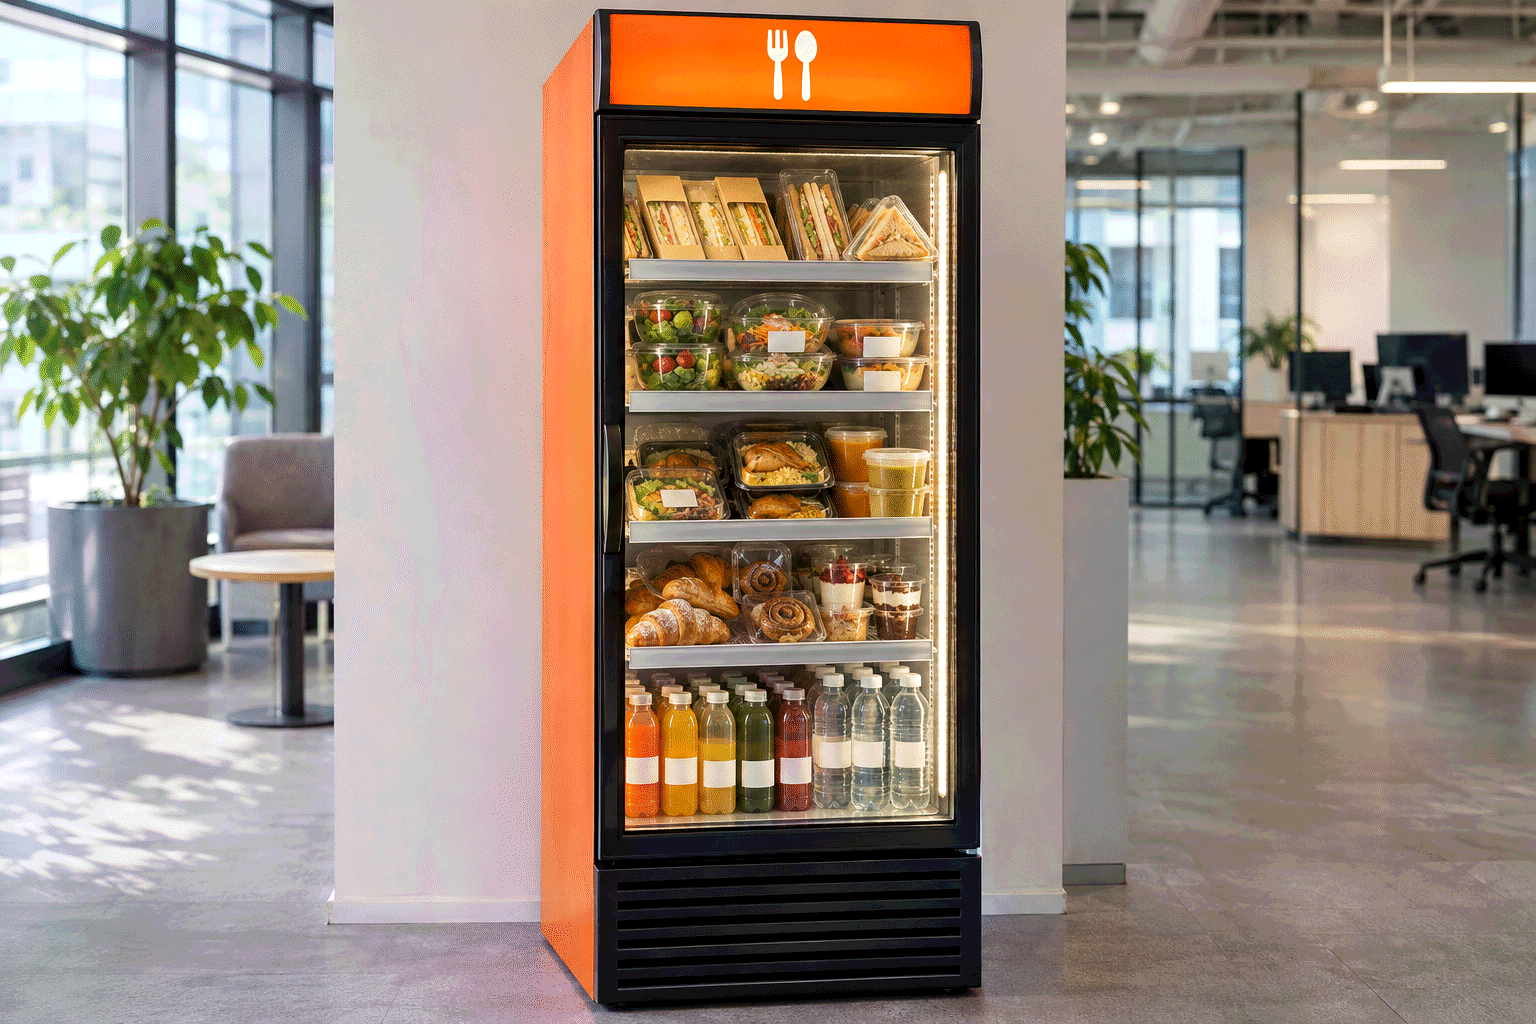
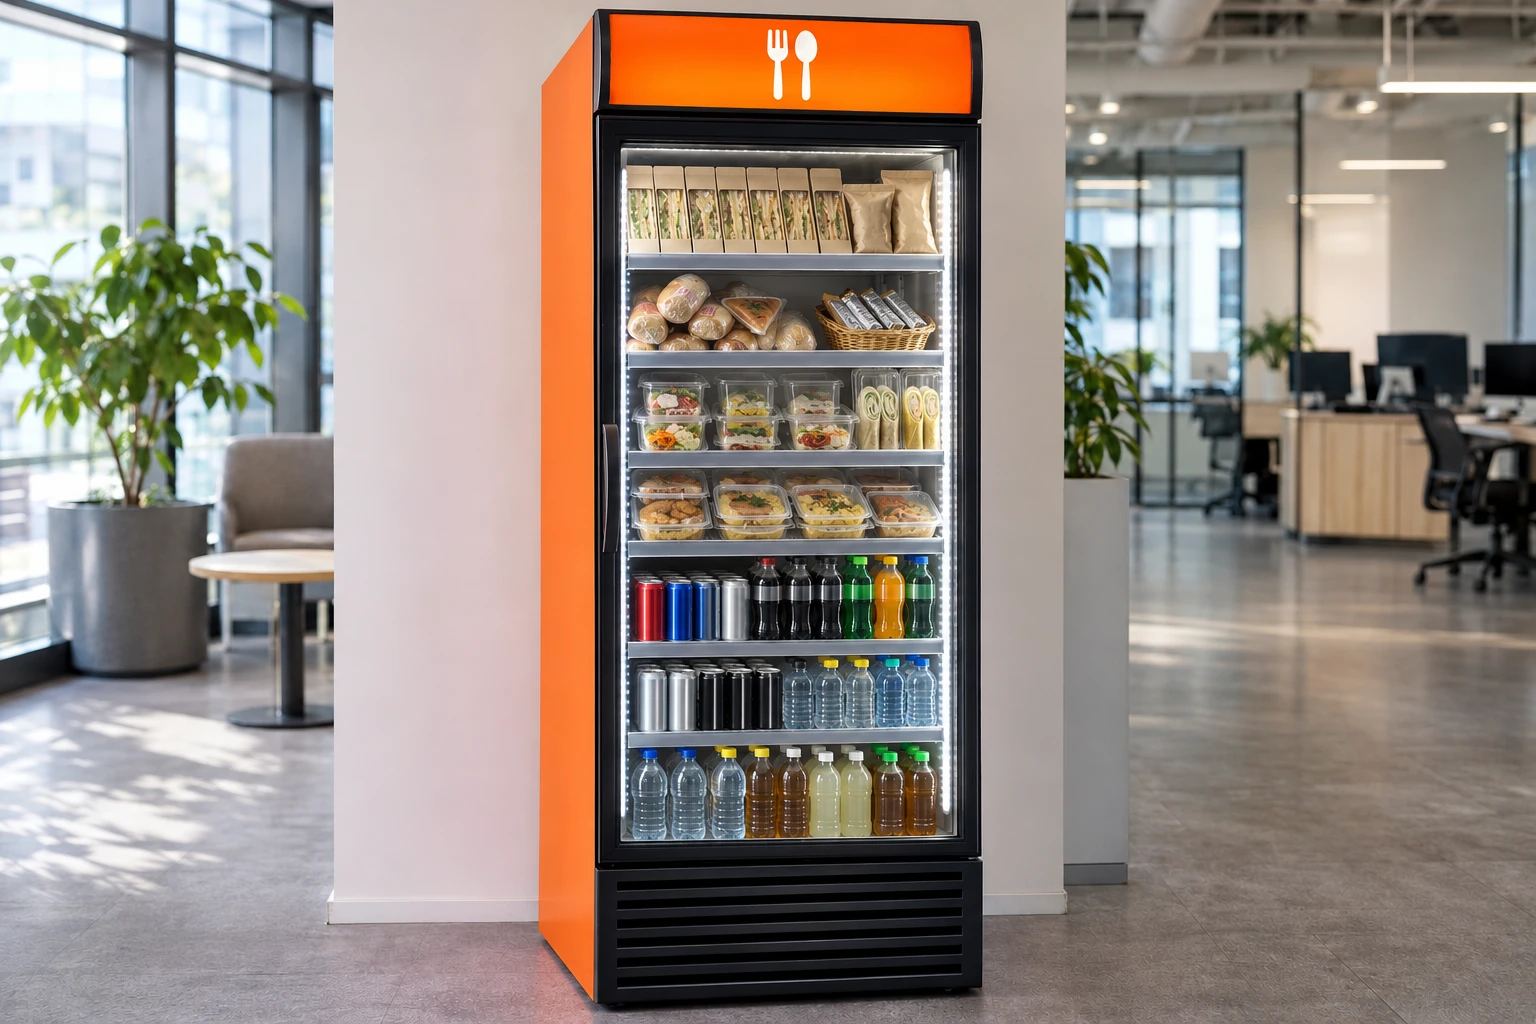
fridge-open v2: реалистичный холодильник в блоке «Что внутри холодильника?» (#10)
Claude-Session: https://claude.ai/code/session_01RjrWoY9dTF8Jmk433wLEoj

diff --git a/index.html b/index.html
@@ -53,7 +53,7 @@
 <article class="lp-food-tile"><div class="lp-photo-slot lp-food-photo" data-image="food-desserts" role="img" aria-label="Сладкое к чаю"><span aria-hidden="true">🍰</span></div><h3>Десерты</h3></article>
 <article class="lp-food-tile"><div class="lp-photo-slot lp-food-photo" data-image="food-drinks" role="img" aria-label="Вода, соки и другие напитки"><span aria-hidden="true">🥤</span></div><h3>Напитки</h3></article></div>
         <div class="lp-fridge-feature">
-          <div class="lp-photo-slot lp-fridge-slot"><img src="images/fridge-open.webp" width="1200" height="900" alt="Умный холодильник с пятью полками: салаты, горячее и супы, сэндвичи и роллы, выпечка и десерты, напитки" loading="lazy" decoding="async"></div>
+          <div class="lp-photo-slot lp-fridge-slot"><img src="images/fridge-open.webp" width="1200" height="900" alt="Холодильник с готовой едой: сэндвичи, роллы, салаты, горячие обеды и напитки" loading="lazy" decoding="async"></div>
           <div><h3>Что внутри холодильника?</h3><p>Салаты, горячие блюда и супы, сэндвичи, выпечка, десерты и напитки — готовое меню для разных вкусов.</p><p>Следим за продажами и корректируем ассортимент точки.</p></div>
         </div>
       </div>
